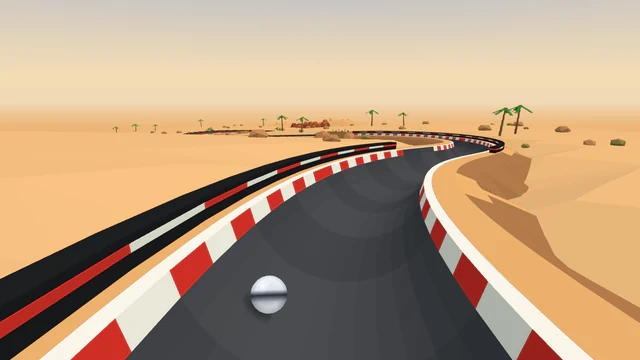
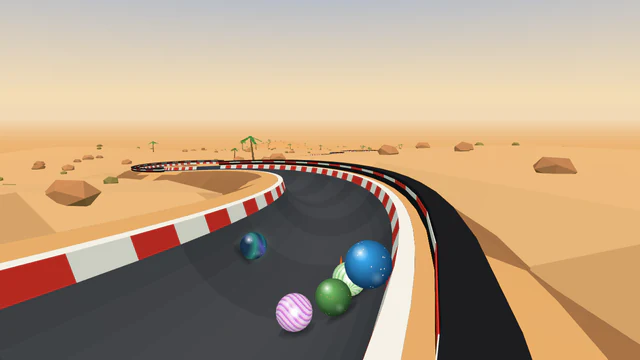
Sahara Marble Grand Prix: its own layout; its records start again
Moses's order (7 Nov 2026, 08:26), the third of four: its own layout and opening, two signature
features from the real place, no jump. Until now Sahara was the Grand Prix recipe of 10 Oct 2026
(Dubai's track). A staggered-drop opening (the field let go from the kasbah in five waves, like a
caravan setting out; first bend right, Zermatt's turns left), the Erg S-bends, the Salt flat straight,
the Dune wave (big feature one, the signature: a half-pipe of four 15° swings; its TV camera 12 m up
near its end), the Caravan sweep, the Oasis splitter (big feature two, the proven Grand Prix
splitter), the Canyon run, the Erg Chebbi hairpin, a drop down the dune and the Mosque straight. No
spiral: no stretch runs within 30 m beside another above it. Start shots a chase, then from
overhead; the trapdoor gate. Spectator groups 650 m apart, no caravan or palms: the drawing budget.

Full report: all 52 lines pass (winner 50.3 s, last 73.8 s, gap 14.6 s, 70 overtakes; splitter
20.7%/22.2% and 79.3%/77.8%; layout closest 0.63, first 20 seconds closest 0.75; computer flyover
147k triangles). Website TV camera test passes. Data update
2027-06-08-sahara-marble-grand-prix-new-layout.sql (--relayout: its records start again). Off the
sameness test's known failures. Docs: 06, README. Server suite 626 pass; website 1810 pass.

Claude-Session: https://claude.ai/code/session_011vSSkqNPL9kncfzrwF15wS

diff --git a/src/tracks/sahara-marble-grand-prix.js b/src/tracks/sahara-marble-grand-prix.js
@@ -1,56 +1,68 @@
 'use strict';
 
-const { track, plunge, straight, sBends, sweep, spiral, hairpin, splitter, runIn, pileUp, block, swipe, parked, slalom, boost, rumble } = require('../trackKit');
+// Sahara Marble Grand Prix, its own layout (Moses, 7 Nov 2026: four more Grand Prix tracks re-laid the same way as
+// Lagos, Istanbul and Sydney; Sahara third). Until then it was the Grand Prix recipe of 10 Oct 2026 (the same track as
+// Dubai). Now the field leaves the kasbah in waves, like a caravan setting out (the staggered drop), threads the Erg
+// S-bends and crosses the salt flat, rides the Dune wave (big feature one, the signature: a half-pipe over the dunes,
+// four swings), sweeps round with the caravan, splits either side of the oasis (big feature two: the Oasis splitter),
+// runs through the red rock canyon to the Erg Chebbi hairpin, drops down the dune and runs along the Mosque straight to
+// the great mud-brick mosque. Its records started again with the new layout (tracks.records_since).
+const {
+  track, opening, straight, plunge, sBends, sweep, hairpin, splitter, halfPipe, runIn, peg, slalom, swipe, rumble,
+} = require('../trackKit');
 
 module.exports = track({
   slug: 'sahara-marble-grand-prix',
   name: 'Sahara Marble Grand Prix',
   difficulty: 'extreme',
-  description: 'A desert Grand Prix: from a kasbah of earthen towers over the dunes, through a narrow red rock canyon cheered from the cliff tops and round an oasis, to a great mud-brick mosque.',
+  description: 'A desert Grand Prix: out of a kasbah of earthen towers like a caravan setting out, over the salt flat, riding the dune wave, either side of an oasis, through a red rock canyon and down the dunes to a great mud-brick mosque.',
   surface: 'asphalt',
   biome: 'desert',
   lighting: 'day',
   variants: ['fog', 'sunset'],
-  grandPrix: { crowd: 'desert-folk' },
-  signature: 'Canyon run',
+  grandPrix: { crowd: 'desert-folk', groupsEvery: 650 }, // (the small groups of spectators further apart than usual: the flyover's drawing budget)
+  signature: 'Dune wave',
   tvCameras: [
-    { section: 'Oasis splitter', at: 0.8, side: 'left', distance: 10, height: 8 },
-    { section: 'Spiral', at: 0.8, side: 'left', distance: 10, height: 12 },
+    // (Near the end of the wave, looking back along it as the field rocks over the dunes.)
+    { section: 'Dune wave', at: 0.85, side: 'right', distance: 8, height: 12 },
   ],
   billboardFrame: 'crates',
-  start: { landmark: 'kasbah', shots: { countdown: 'chase', launch: 'look-back' } },
+  start: { landmark: 'kasbah', gate: 'trapdoor', shots: { countdown: 'chase', launch: 'overhead' } },
   finish: { landmark: 'mud-mosque' },
   designChanges: [
-    'A traffic-cone chicane at the foot of the Kasbah plunge, straight after the tyre stacks: without it (as designed) the field reached the splitter sorted by strength, the gap from first to last grew to 20 s (18 allowed) and the races had too few overtakes (58; 60 needed).',
-    'The Oasis splitter comes straight after the Dune S-bends, and the Canyon run is the 50 m straight before the hairpin, its braking zone: with the canyon between the dunes and the oasis the splitter could not share the field out fairly (the oasis side won 94% of races with 78% of the marbles), and the recipe needs a braking zone before the one sharp bend.',
-    'The kneeling camels are on the straight before the finish, "Mosque straight", rather than in the Dune S-bends: on the bends they pushed the field to the wrong side of the splitter (the oasis side won 15% of races with 30% of the marbles) and spread it 20 s from first to last; on the Desert sweep, nearly level, marbles stuck against them.',
-    'The rumble strips and the parked support truck are on the Mosque straight too, rather than on the spiral and the run-in: the recipe keeps bumps off bends and the last 25 m before the line clear.',
+    'A new layout (7 Nov 2026): until then Sahara was physically the Grand Prix recipe of 10 Oct 2026 (the same track as Dubai Marble Grand Prix). Its old signature, the Canyon run, stays as the braking straight before the hairpin; the spiral and the boost pad on the sweep go.',
+    'Two Sahara features: the Dune wave (big feature one, the signature: a half-pipe over the dunes, four gentle swings of 15°, as on Sydney\'s Bondi wave, where 18° made the follow camera jump) and the Oasis splitter (big feature two: a channel either side of the oasis, the proven Grand Prix splitter). No jump: the three jump tracks are used.',
+    'The opening a staggered drop, like a caravan setting out (the field let go from the kasbah in five waves), its first bend to the right: Zermatt Marble Grand Prix\'s, the only other Grand Prix track with this opening, turns left. The latest re-layouts opened with a split start, a crest, a pipe drop, a funnel drop, a banked turn and a tunnel launch. Its start shots (a chase, then from overhead) and its trapdoor gate are its own among the Grand Prix tracks.',
+    'The Dune wave four swings and a drop down the dune after the hairpin: with two swings and no drop the winner took 46 s (target 48–55 s). The salt flat straight before the wave is its run-in (a half-pipe needs at least 20 m of straight or a drop before it). No spiral: with one, some stretches ran close under others; without it no stretch runs within 30 m beside another one above it, and the field races over open desert.',
+    'The Dune wave\'s TV camera 12 m up (not 7): lower, the dunes\' banks stood between it and the wave. Spectator groups every 650 m, no caravan beside the sweep and no palms round the oasis: with them, a computer drew 160k triangles in the flyover\'s first frame and 152k at the race\'s busiest (150k allowed).',
+    'Clearly not the Grand Prix recipe or any other track: no other track\'s section order is close (Belgrade Badnjak Run, the nearest, at 0.63).',
   ],
+  opening: opening('staggered-drop', {
+    costumes: { block: 'tyre-stack', slalom: 'traffic-cone' },
+    names: { plunge: 'Kasbah drop' },
+  }),
   sections: [
     {
-      name: 'Kasbah plunge', shape: plunge(80, { grade: 0.6 }),
-      obstacles: [pileUp({ costume: 'tyre-stack', at: 0.42 }), slalom({ costume: 'traffic-cone', from: 0.55, to: 0.97, count: 6, loss: 0.3 })],
+      name: 'Erg S-bends', shape: sBends({ first: 'right', radius: 70, degrees: 80, grade: 0.16 }), billboards: 2,
+      obstacles: [slalom({ costume: 'traffic-cone', from: 0.15, to: 0.5, count: 3, loss: 0.15 }), peg({ costume: 'traffic-cone', at: 0.7, line: 'center' })],
     },
     {
-      name: 'Dune S-bends', shape: sBends({ first: 'left', radius: 75, degrees: 80, grade: 0.13 }), billboards: 2,
+      name: 'Salt flat straight', shape: straight(60, { grade: 0.15 }), billboards: 1,
+      obstacles: [peg({ costume: 'traffic-cone', at: 0.3, line: 'left' }), peg({ costume: 'traffic-cone', at: 0.6, line: 'right' })],
     },
+    { name: 'Dune wave', shape: halfPipe({ first: 'right', width: 8, swings: 4, radius: 150, degrees: 15, grade: 0.14 }) },
+    { name: 'Caravan sweep', shape: sweep({ side: 'right', radius: 80, degrees: 120, grade: 0.1 }), billboards: 2 },
     {
       name: 'Oasis splitter', shape: splitter({ side: 'left', balance: { tipOffset: -0.8, left: { drag: 1.32, scrub: 1.32 }, right: { drag: 0.42, scrub: 0.72 } } }),
       around: 'oasis',
     },
-    {
-      name: 'Desert sweep', shape: sweep({ side: 'right', radius: 80, degrees: 160, grade: 0.07 }), features: [boost({ at: 0.08 })], billboards: 4,
-    },
     { name: 'Canyon run', shape: straight(50, { grade: 0.12 }), tunnel: 'canyon' },
-    { name: 'Hairpin', shape: hairpin({ side: 'left' }), obstacles: [swipe({ costume: 'camera-crane', side: 'high' })] },
+    { name: 'Erg Chebbi hairpin', shape: hairpin({ side: 'left' }), obstacles: [swipe({ costume: 'camera-crane', side: 'high' })] },
+    { name: 'Down the dune', shape: plunge(45, { grade: 0.28, from: 0.16 }), obstacles: [slalom({ costume: 'traffic-cone', from: 0.3, to: 0.9, count: 4, loss: 0.3 })] },
     {
-      name: 'Spiral', shape: spiral({ side: 'right', radius: 45, grade: 0.17 }),
-      landmarks: [{ name: 'caravan', at: 0.5, side: 'left', distance: 90 }],
-    },
-    {
-      name: 'Mosque straight', shape: straight(90, { grade: 0.15 }),
-      obstacles: [block({ costume: 'camel', at: 0.1, line: 'left' }), block({ costume: 'camel', at: 0.25, line: 'right' }), parked({ costume: 'support-truck', at: 0.42, side: 'right', length: 8 })],
-      features: [rumble({ from: 0.75, to: 0.95, count: 3 })], billboards: 2, scenery: ['grandstand'],
+      name: 'Mosque straight', shape: straight(60, { grade: 0.15 }), billboards: 2, scenery: ['grandstand'],
+      obstacles: [peg({ costume: 'traffic-cone', at: 0.25, line: 'right' }), peg({ costume: 'traffic-cone', at: 0.45, line: 'left' })],
+      features: [rumble({ from: 0.7, to: 0.95, count: 3 })],
     },
     { name: 'Finish', shape: runIn(), scenery: ['grandstand'] },
   ],

diff --git a/test/samenessAllTracks.test.js b/test/samenessAllTracks.test.js
@@ -43,9 +43,8 @@ const KNOWN = {
   'amazon-water-run': ['layout'],
   'rio-jungle-rumble': ['opening', 'opening-kind', 'layout'],
   'china-wall-twister': ['opening', 'opening-kind', 'layout'],
-  // Grand Prix (one design: Dubai's; Stockholm, Lagos, Istanbul, Sydney, Nairobi and Delhi have their own since 6–7 Nov 2026).
+  // Grand Prix (one design: Dubai's; Stockholm, Lagos, Istanbul, Sydney, Nairobi, Delhi and Sahara have their own since 6–7 Nov 2026).
   'dubai-marble-grand-prix': ['opening', 'opening-kind', 'layout'],
-  'sahara-marble-grand-prix': ['opening', 'opening-kind', 'layout'],
   'elderglade-marble-grand-prix': ['opening-kind'], // (its opening and layout are its own since Sydney, Lagos and Stockholm got theirs, 7 Nov 2026)
   'frostmere-marble-grand-prix': ['opening', 'opening-kind', 'layout'],
   'wyrmwood-hollow-marble-grand-prix': ['opening', 'opening-kind', 'layout'],

diff --git a/docs/README.md b/docs/README.md
@@ -9,7 +9,7 @@
 **Where it stands:**
 - **Website:** live at marblespins.com (Vercel builds every push to `Main`; redeployed by Moses on 1 Nov after the Blocks Series 2 switch-on). Soft start (social media, 10–20 invited test pilots) since the week of 26 Oct. **Official launch 1 Dec 2026**, with the Holiday Season, the season pass and the apps. Google Analytics 4 is on since 31 Oct (after cookie consent); the Meta Pixel is off.
 - **Tracks:** **143 live in ten series**: World Tour, Grand Prix, Coasters, Canyons, Blocks, Track and Field, Rivers (16), Peaks (15), Pinball and Arcade. The 31 holiday tracks are switched on but hidden and closed until 1 Dec 00:00 Swedish time (174 then). **Blocks Series 2: all 20 live** (two big features each): the test five since 31 Oct; the other fifteen (four cities, three rivers, four mountains, four winter tracks) switched on by Moses on 1 Nov after the server deploy. **Saint-Tropez** (World Tour) and **Pudong Marble Grand Prix** (Grand Prix), the first two tracks with the kit's loop, switched on by Moses on 4 Nov 2026 by hand in Railway's query box, after the server deploy; the website redeployed the same morning.
-- **Server:** deployed by Moses on 7 Nov 2026 from Main (code fingerprint `22aa52923453`, `1ed7e9e`): the own layouts of Lagos, Istanbul and Sydney Marble Grand Prix (data updates `2027-06-02-…` to `2027-06-04-…-new-layout.sql`; their records started again). Before that, 6 Nov (`533b9d0d08de`, `645de71`; 487 columns): the records reset on a new layout (`tracks.records_since`) and Stockholm's own layout. Before that, 4 Nov (`d7928db64307`, `ae7dc20`; 177 tracks in the database): Pudong Marble Grand Prix (data update `2027-05-31-add-pudong-marble-grand-prix.sql`). Before that, 3 Nov (`a096af4ab19a`, 176 tracks): the loop engine (physics for the track kit's `loop` piece) and Saint-Tropez (`2027-05-30-add-saint-tropez.sql`). Before that, 2 Nov (`fb4654c0885e`, last server change `6e23a24`; 486 columns): the back office Dashboard, staff accounts (`users.is_staff`), the first-visit steps (`first_steps`), guests made with what they tapped, the hourly IP clean-up, the Security tab loaded on its own and audited (`security-view`), and the first country in the Players list. **Waiting for the next server deploy:** the race readiness report's new fields for the apps (build, beeps, GO gap, failed loads; `src/readiness`: no table or column change), and Lagos Marble Grand Prix's second TV camera taken out (data update `2027-06-05-lagos-marble-grand-prix-tv-camera.sql`; looks only, its records stay), Nairobi Marble Grand Prix's own layout (the Expressway loop and the Acacia splitter; data update `2027-06-06-nairobi-marble-grand-prix-new-layout.sql`; its records start again), and Delhi Red Fort Marble Grand Prix's own layout (the Lahori Gate tunnel launch and the Qutub Minar spiral; data update `2027-06-07-delhi-red-fort-marble-grand-prix-new-layout.sql`; its records start again). **Waiting for the next app build (1.0.0 (3)):** the app's countdown and hit-sound fixes (website sound unchanged).
+- **Server:** deployed by Moses on 7 Nov 2026 from Main (code fingerprint `22aa52923453`, `1ed7e9e`): the own layouts of Lagos, Istanbul and Sydney Marble Grand Prix (data updates `2027-06-02-…` to `2027-06-04-…-new-layout.sql`; their records started again). Before that, 6 Nov (`533b9d0d08de`, `645de71`; 487 columns): the records reset on a new layout (`tracks.records_since`) and Stockholm's own layout. Before that, 4 Nov (`d7928db64307`, `ae7dc20`; 177 tracks in the database): Pudong Marble Grand Prix (data update `2027-05-31-add-pudong-marble-grand-prix.sql`). Before that, 3 Nov (`a096af4ab19a`, 176 tracks): the loop engine (physics for the track kit's `loop` piece) and Saint-Tropez (`2027-05-30-add-saint-tropez.sql`). Before that, 2 Nov (`fb4654c0885e`, last server change `6e23a24`; 486 columns): the back office Dashboard, staff accounts (`users.is_staff`), the first-visit steps (`first_steps`), guests made with what they tapped, the hourly IP clean-up, the Security tab loaded on its own and audited (`security-view`), and the first country in the Players list. **Waiting for the next server deploy:** the race readiness report's new fields for the apps (build, beeps, GO gap, failed loads; `src/readiness`: no table or column change), and Lagos Marble Grand Prix's second TV camera taken out (data update `2027-06-05-lagos-marble-grand-prix-tv-camera.sql`; looks only, its records stay), Nairobi Marble Grand Prix's own layout (the Expressway loop and the Acacia splitter; data update `2027-06-06-nairobi-marble-grand-prix-new-layout.sql`; its records start again), Delhi Red Fort Marble Grand Prix's own layout (the Lahori Gate tunnel launch and the Qutub Minar spiral; data update `2027-06-07-delhi-red-fort-marble-grand-prix-new-layout.sql`; its records start again), and Sahara Marble Grand Prix's own layout (the Dune wave and the Oasis splitter; data update `2027-06-08-sahara-marble-grand-prix-new-layout.sql`; its records start again). **Waiting for the next app build (1.0.0 (3)):** the app's countdown and hit-sound fixes (website sound unchanged).
 - **Apps:** iPhone and Android (Capacitor) are built; the Android app is tested on Moses's phone. They need a rebuild for the keep-awake fix and the new sounds. Store submission is planned for 16–20 Nov.
 - **Email: on since 1 Nov 2026** (Brevo; `BREVO_API_KEY` and `EMAIL_FROM` on Railway, a password-reset email arrived in Moses's inbox; sender no-reply@marblespins.com since 4 Nov 2026, marblespins.com re-authenticated in Brevo that day, support replies with support@ as reply-to): password resets, "Confirm your email" for new sign-ups, support replies and contact-form notifications. The pass reminders are not sent yet.
 - **Payments:**

diff --git a/docs/06-decisions.md b/docs/06-decisions.md
@@ -4,6 +4,7 @@
 
 | Date | Decision | Why |
 |---|---|---|
+| 2026-11-07 | **Sahara Marble Grand Prix's new layout built** (technical, on Moses's order of 7 Nov 08:26, the third of four). A staggered-drop opening (the field let go from the kasbah in five waves, like a caravan setting out; its first bend to the right, Zermatt's turns left), the Erg S-bends, the Salt flat straight, the Dune wave (big feature one, the signature: a half-pipe of four 15° swings; its TV camera near its end looking back), the Caravan sweep, the Oasis splitter (big feature two, the proven Grand Prix splitter round the oasis), the Canyon run, the Erg Chebbi hairpin, a drop down the dune and the Mosque straight. No spiral. Start shots a chase, then from overhead; the trapdoor gate. Data update `2027-06-08-sahara-marble-grand-prix-new-layout.sql` (`--relayout`: its records start again). | With two swings and no drop the winner took 46 s (target 48–55 s); four swings and the drop bring it to 50 s. Without a spiral no stretch runs within 30 m beside another above it (where Nairobi's follow camera went into the bank). |
 | 2026-11-07 | **Delhi Red Fort Marble Grand Prix's new layout built** (technical, on Moses's order of 7 Nov 08:26, the second of four). A tunnel-launch opening (the Rampart drop diving through the Lahori Gate, in the fort's walls: big feature one; its first bend to the right, Pudong's turns left), the Chandni Chowk S-bends (a slalom, then two cones: a cone and then the slalom made the first 20 seconds too like Pudong's), the Qutub Minar spiral (big feature two, the signature: a turn and a half down round a new landmark, the Qutub Minar, looks only; its TV camera at the foot looking back up), the Jama Masjid sweep, the Lutyens bank (160°), the Connaught hairpin, the drop to Raj Ghat, the Lodhi S-bends and Kartavya Path to India Gate. Start shots from above, then a low chase; the paddle gate. Data update `2027-06-07-delhi-red-fort-marble-grand-prix-new-layout.sql` (`--relayout`: its records start again). | The first drawing was 41 s (target 48–55 s), so the sweep and the Lodhi S-bends went in; then the Jama Masjid sweep ran 7 m aside of the Chandni Chowk S-bends, 77 m below (where Nairobi's follow camera went into the bank), so every bend's direction was chosen out of the 64 combinations for the most room under the track above, among those passing the sameness and opening checks. |
 | 2026-11-07 | **Nairobi Marble Grand Prix's new layout built** (technical, on Moses's order of 7 Nov 08:26: four more Grand Prix tracks re-laid like Lagos, Istanbul and Sydney, Nairobi first; each its own layout and opening, two signature features from the real place, no jump). A banked-turn opening to the right (the KICC drop and the City bank: the latest re-layouts opened with a split start, a crest, a pipe drop and a funnel drop), the Uhuru S-bends (a slalom, then a cone: the other way round the first 20 seconds were too like Accra December Beats'), the Expressway loop (the signature: a loop on the elevated Nairobi Expressway, its TV camera just past it), the Run to Westlands and the Westlands hairpin (turning left: turning right, the Mbagathi S-bends ran under the loop's straight and the follow camera went inside the bank between them), the Mbagathi S-bends, the Acacia splitter (a channel either side of a flat-topped acacia, giraffes and zebras beyond; shorter than the Grand Prix one, a 60 m run-in, 100° and a 30 m merge, with its inside channel rougher, 2.1, its outside one smoother, 0.3, and the tip 0.3 m over), the Plains spiral (40 m) and the Plains straight along the park fence. Start shots from the front, then looking back. Data update `2027-06-06-nairobi-marble-grand-prix-new-layout.sql` (`--relayout`: its records start again). | With the full-length Grand Prix splitter the winner took 56 s (target 48–55 s): the straights were not what made it slow (steeper or shorter straights changed little), the 300 m splitter was. Shorter, its inside channel was the quicker way round, hence the rougher inside. The Uhuru S-bends at 75°: at 65° the weakest marbles reached the loop's launch pad more often than the strongest. |
 | 2026-11-07 | **The app's countdown and hit sounds** (technical, after Moses's Android test of build 1.0.0 (2): the beeps about 30 s into the race, no bump or collision sounds; the website fine). Four causes fixed, website sound unchanged: (1) the sound's GO took the whole wait before the race (a slow phone building its track) while the picture is held back at most 12 s (`MAX_HOLD_MS`), so the beeps came that much after GO as shown: now the same cap; (2) at GO as shown, beeps timed for a later GO are dropped (never a countdown after GO); (3) the native player loaded every file at once (Android prepares each in a MediaPlayer) and a file slower than 8 s was lost for the visit (no hit sounds): now two at a time, the start and hit sounds first, and a late file still counts when it arrives; (4) Android ignores a stop while a play is still seeking: stopped once it starts. The race readiness report now carries the build, the beeps, the GO gap and failed loads (back office: Latest app races; the server keeps the new fields after its next deploy). | The countdown must be heard before GO, and the hit sounds in every race. |
